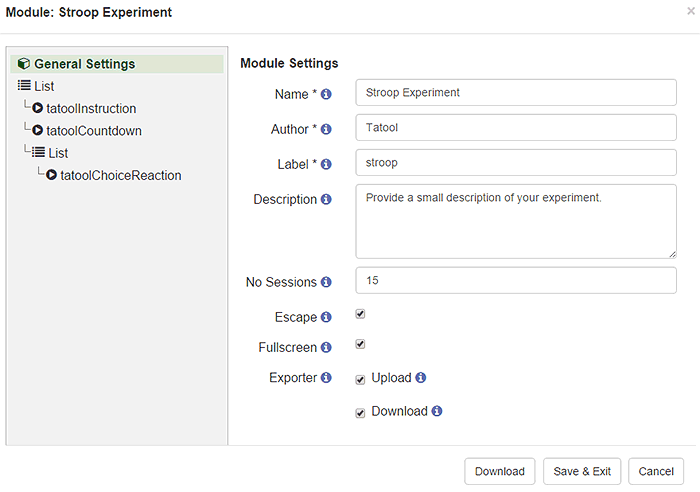
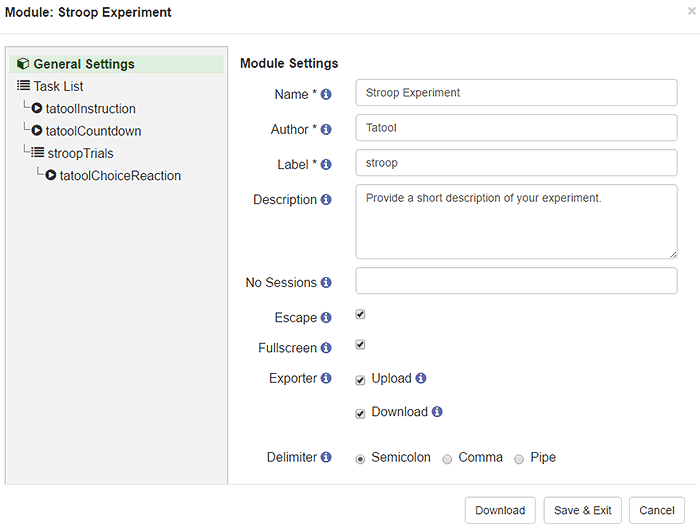
update documentation

diff --git a/app/scripts/app/app.developer.ctrl.js b/app/scripts/app/app.developer.ctrl.js
@@ -4,8 +4,8 @@
 /* global uuid */
 
 angular.module('tatool.app')
-  .controller('DeveloperCtrl', ['$scope', '$q', '$timeout', '$window', '$rootScope', '$location',  '$state', '$http', '$log', '$modal', '$sce', 'moduleDataService', 'cfg', 'authService', 'userService', 'moduleCreatorService', 'exportService', 'spinnerService', 'trialDataService',
-    function ($scope, $q, $timeout, $window, $rootScope, $location, $state, $http, $log, $modal, $sce, moduleDataService, cfg, authService, userService, moduleCreatorService, exportService, spinnerService, trialDataService) {
+  .controller('DeveloperCtrl', ['$scope', '$q', '$timeout', '$window', '$rootScope', '$location',  '$state', '$http', '$log', '$modal', '$sce', 'moduleDataService', 'cfg', 'authService', 'userService', 'moduleCreatorService', 'exportService', 'spinnerService', 'trialDataService', 'cfgApp',
+    function ($scope, $q, $timeout, $window, $rootScope, $location, $state, $http, $log, $modal, $sce, moduleDataService, cfg, authService, userService, moduleCreatorService, exportService, spinnerService, trialDataService, cfgApp) {
 
     $scope.modules = [];
     $scope.alert = {};
@@ -423,6 +423,7 @@ angular.module('tatool.app')
       newModule.setModuleAuthor(moduleDefinition.author);
       newModule.setModuleDefinition(moduleDefinition);
       newModule.setModuleLabel(moduleDefinition.label);
+      newModule.setExportDelimiter(cfgApp.CSV_DELIMITER);
 
       $scope.editModule(newModule);
     };

diff --git a/app/scripts/common/module.pojo.js b/app/scripts/common/module.pojo.js
@@ -13,6 +13,7 @@ var Module = function(moduleId) {
   this.modulePackagePath = '';
   this.sessions = {};
   this.moduleType = '';
+  this.exportDelimiter = '';
 };
 
 // get the module name
@@ -95,6 +96,10 @@ Module.prototype.setModulePackagePath = function(packagePath) {
 
 Module.prototype.setModuleType = function(moduleType) {
   this.moduleType = moduleType;
+};
+
+Module.prototype.setExportDelimiter = function(exportDelimiter) {
+  this.exportDelimiter = exportDelimiter;
 };
 
 // add a session to this module
